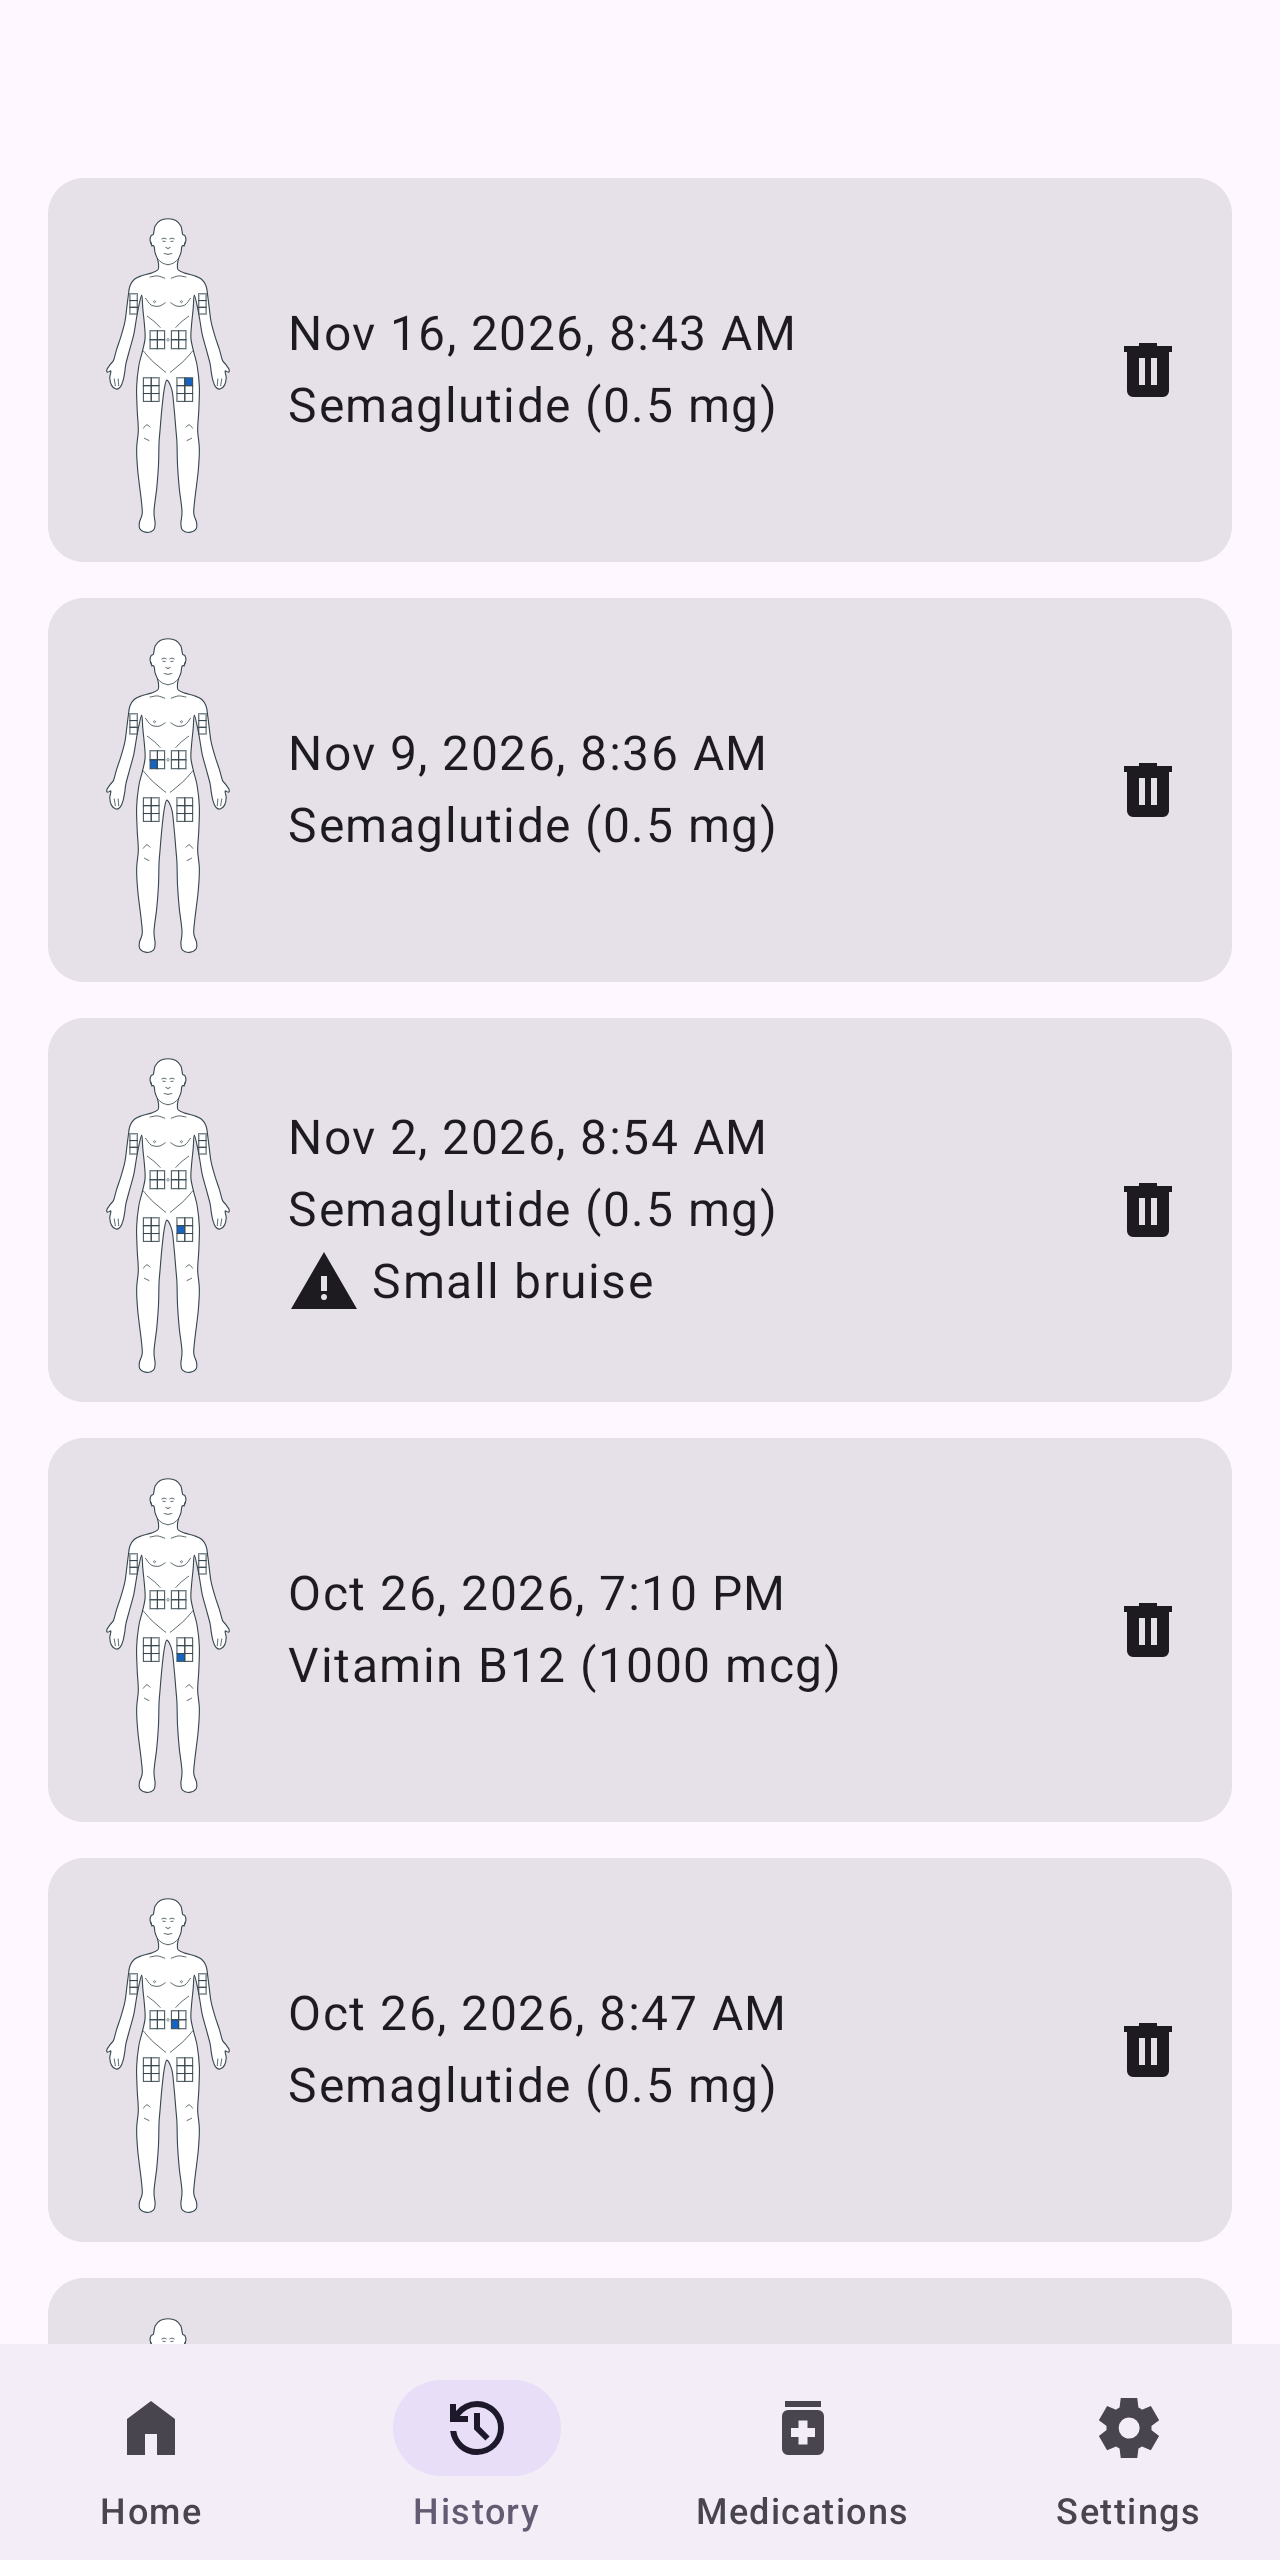
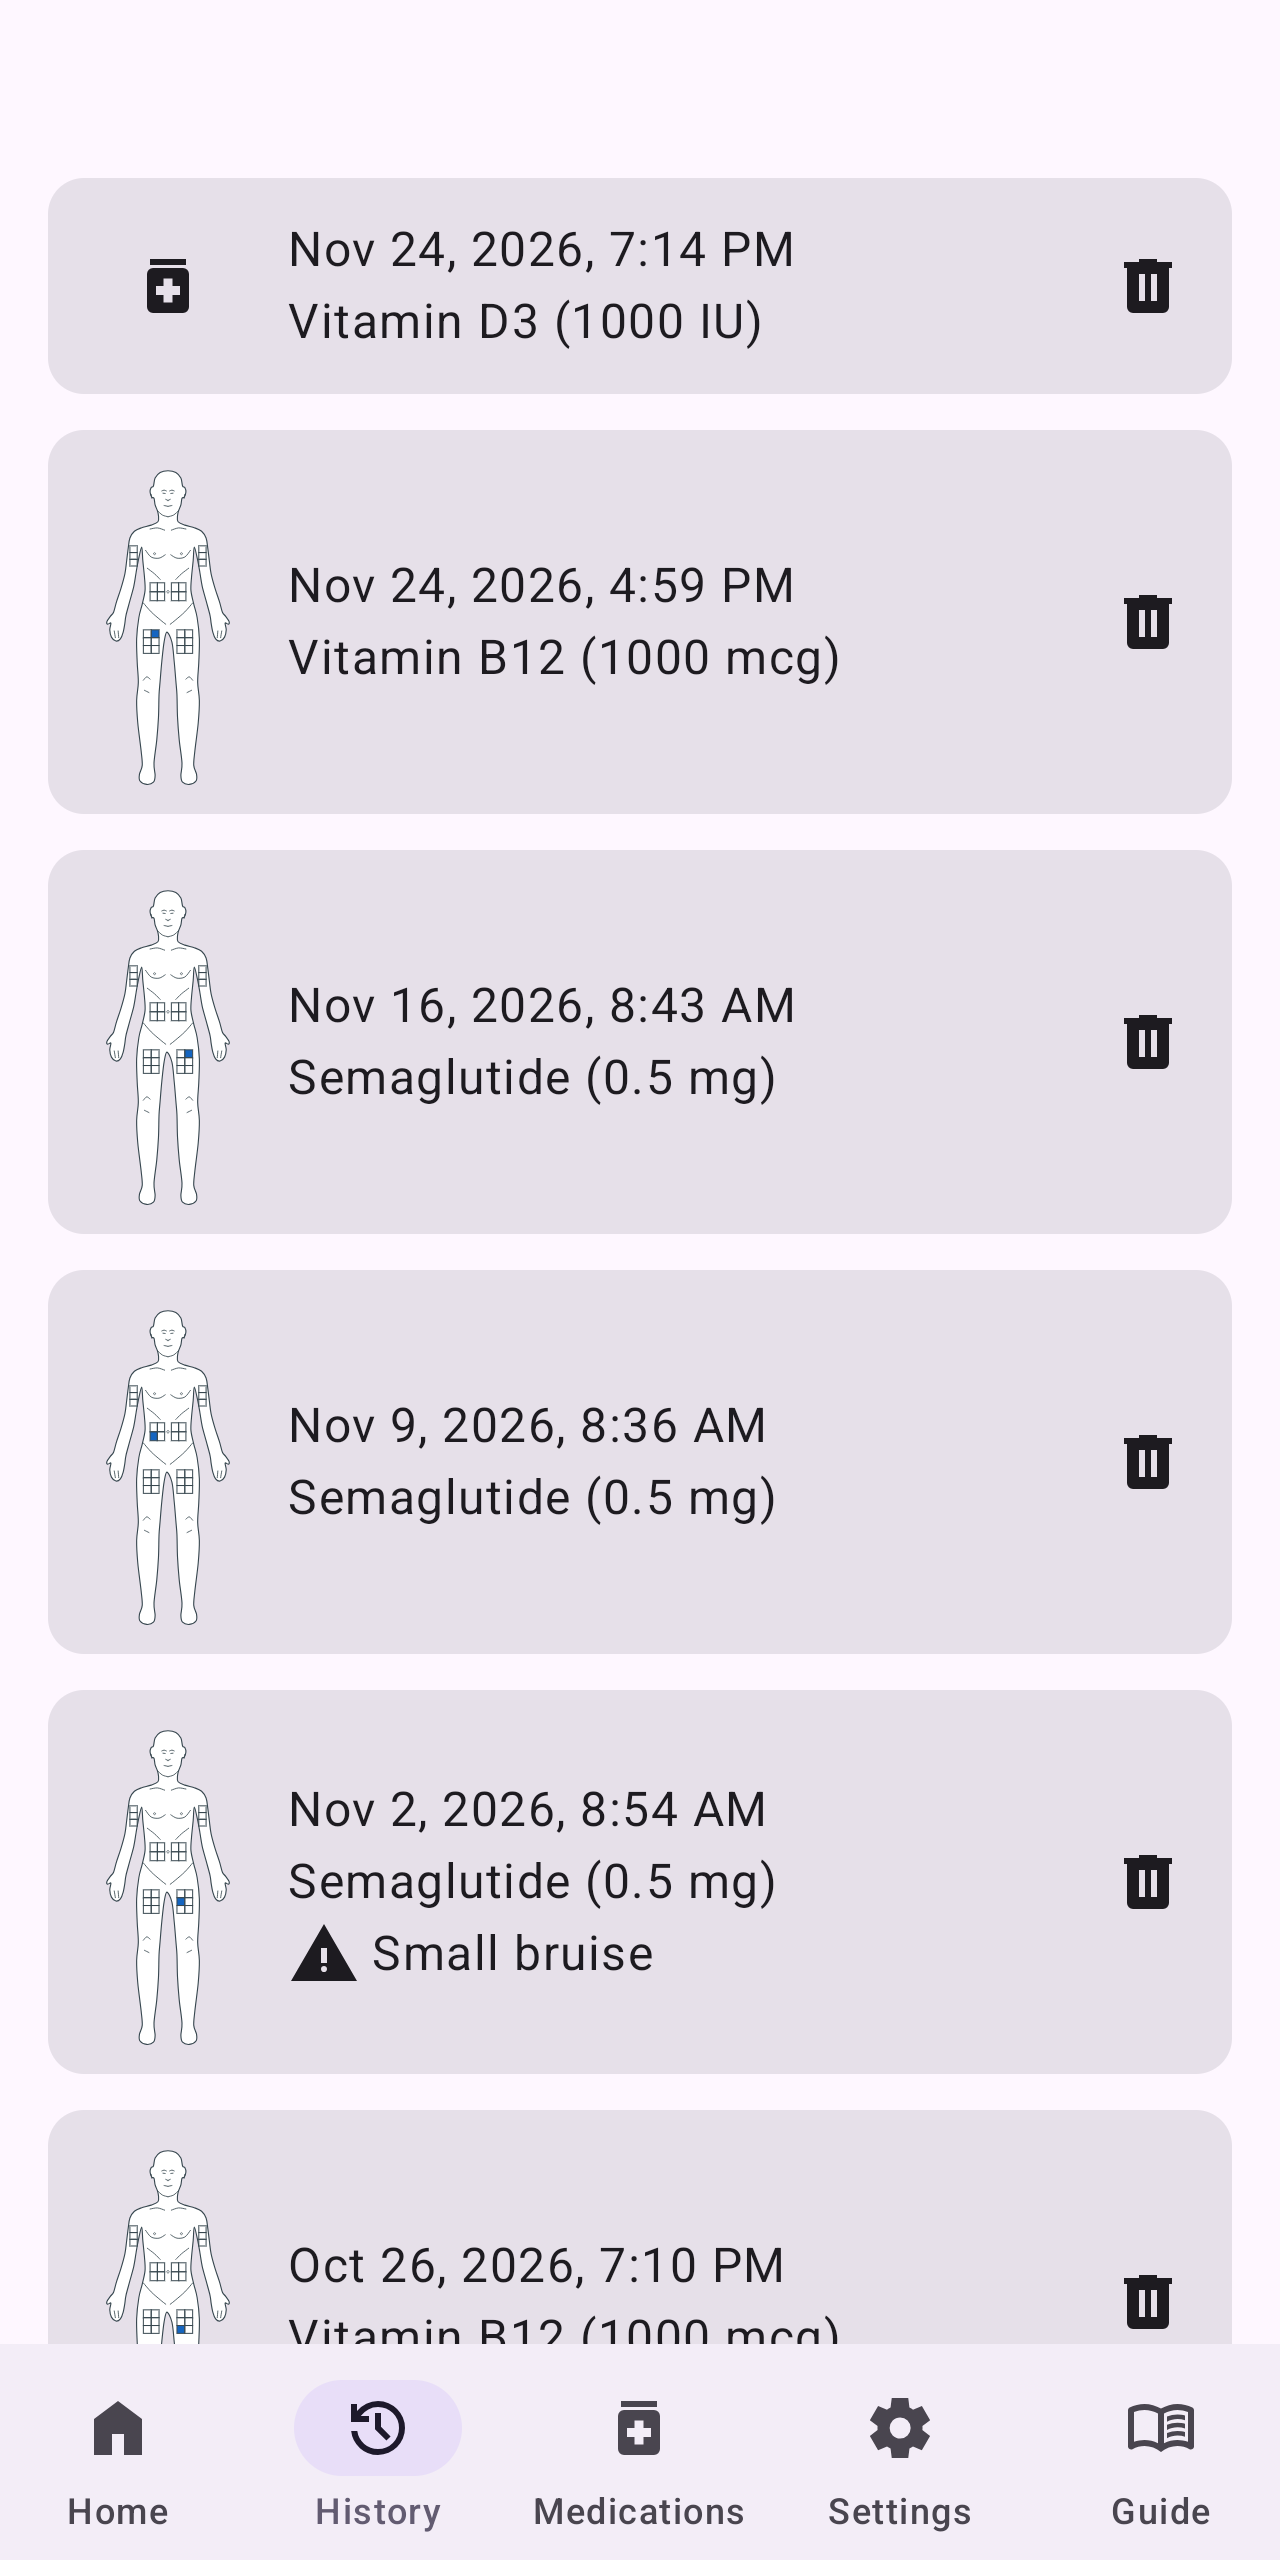
Updated README, screenshots and rebuilt the feature graphic.

diff --git a/README.md b/README.md
@@ -7,11 +7,12 @@ All data stays on the device. The app has no internet permission, no account, no
 ## Screenshots
 
 <p>
-  <a href="screenshots/1_log_injection.png"><img src="screenshots/1_log_injection.png" width="160" alt="Log an injection on the body diagram"></a>
-  <a href="screenshots/2_history.png"><img src="screenshots/2_history.png" width="160" alt="Injection history"></a>
-  <a href="screenshots/3_reminders.png"><img src="screenshots/3_reminders.png" width="160" alt="Reminder settings"></a>
-  <a href="screenshots/4_medications.png"><img src="screenshots/4_medications.png" width="160" alt="Medication list"></a>
-  <a href="screenshots/5_log_details.png"><img src="screenshots/5_log_details.png" width="160" alt="Injection details form"></a>
+  <a href="screenshots/1_log_drug.png"><img src="screenshots/1_log_drug.png" width="160" alt="Log an injection on the body diagram"></a>
+  <a href="screenshots/2_history.png"><img src="screenshots/2_history.png" width="160" alt="History of doses and notes"></a>
+  <a href="screenshots/3_reminders.png"><img src="screenshots/3_reminders.png" width="160" alt="A medication's reminder, ending after 12 doses"></a>
+  <a href="screenshots/4_medications.png"><img src="screenshots/4_medications.png" width="160" alt="Medication list with routes and reminders"></a>
+  <a href="screenshots/5_log_details.png"><img src="screenshots/5_log_details.png" width="160" alt="Logging a dose of an oral medication"></a>
+  <a href="screenshots/6_guide.png"><img src="screenshots/6_guide.png" width="160" alt="Built-in user guide"></a>
 </p>
 
 Screenshots use fictional sample data.
